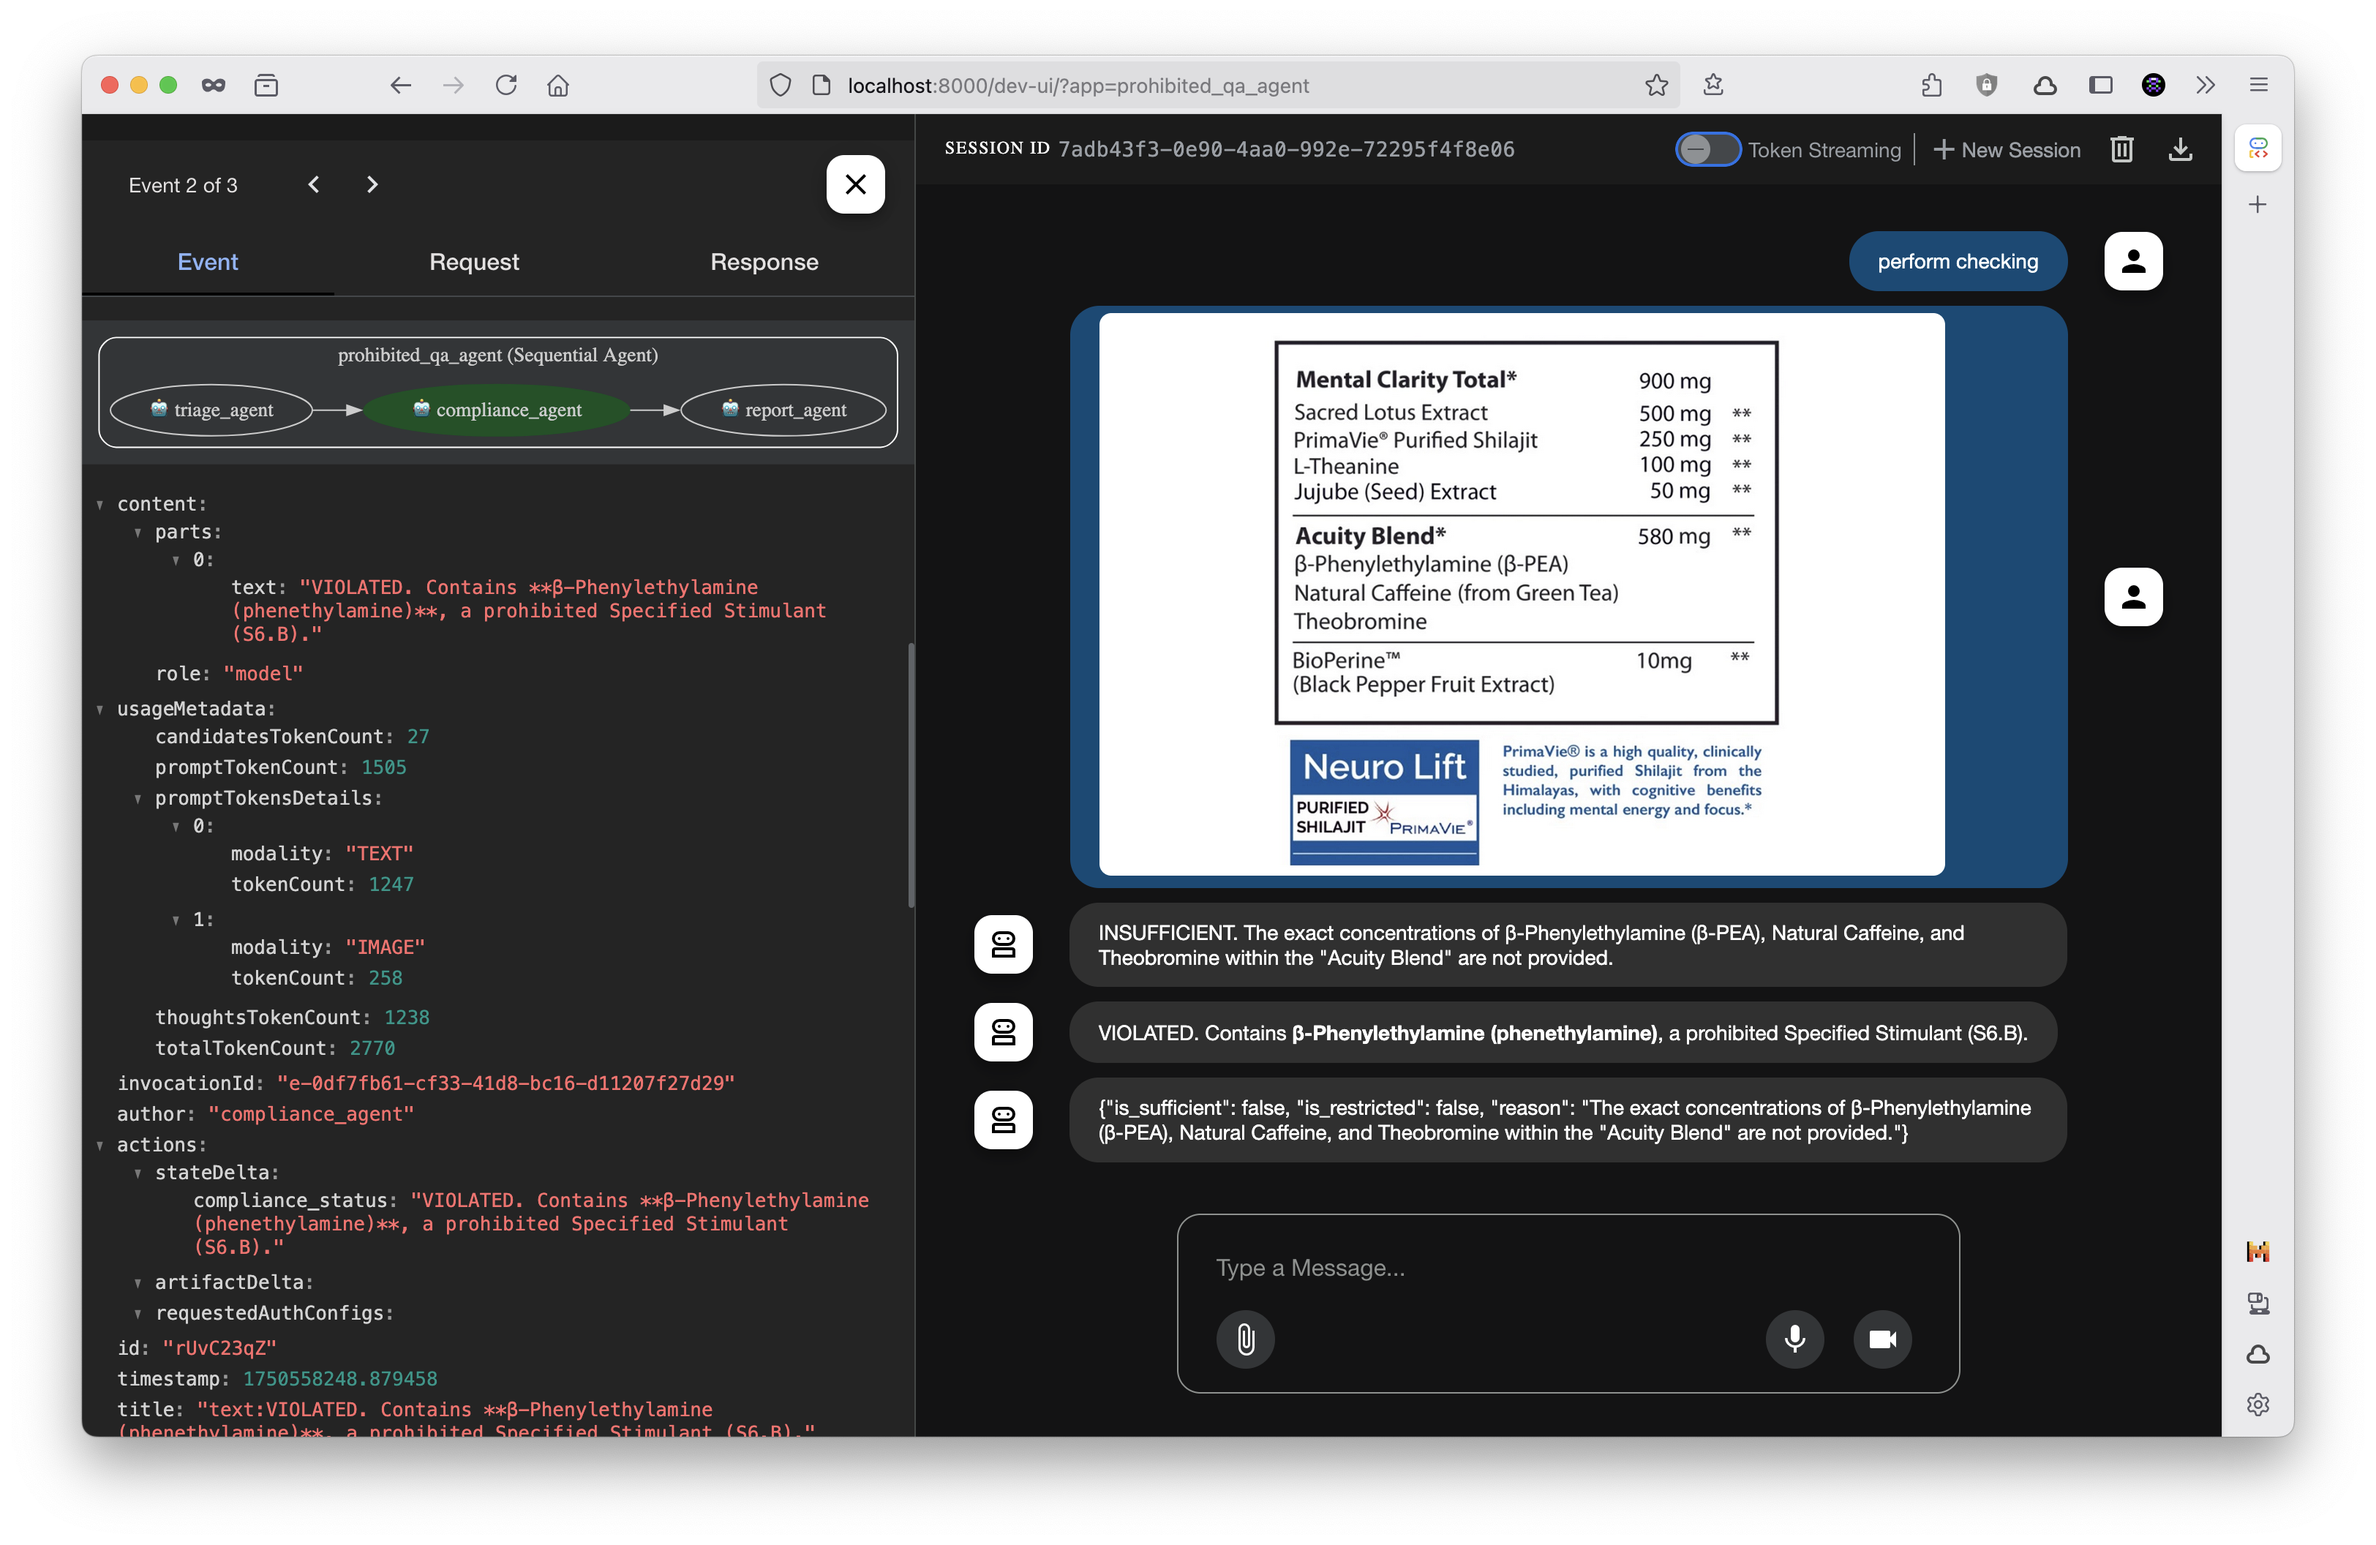
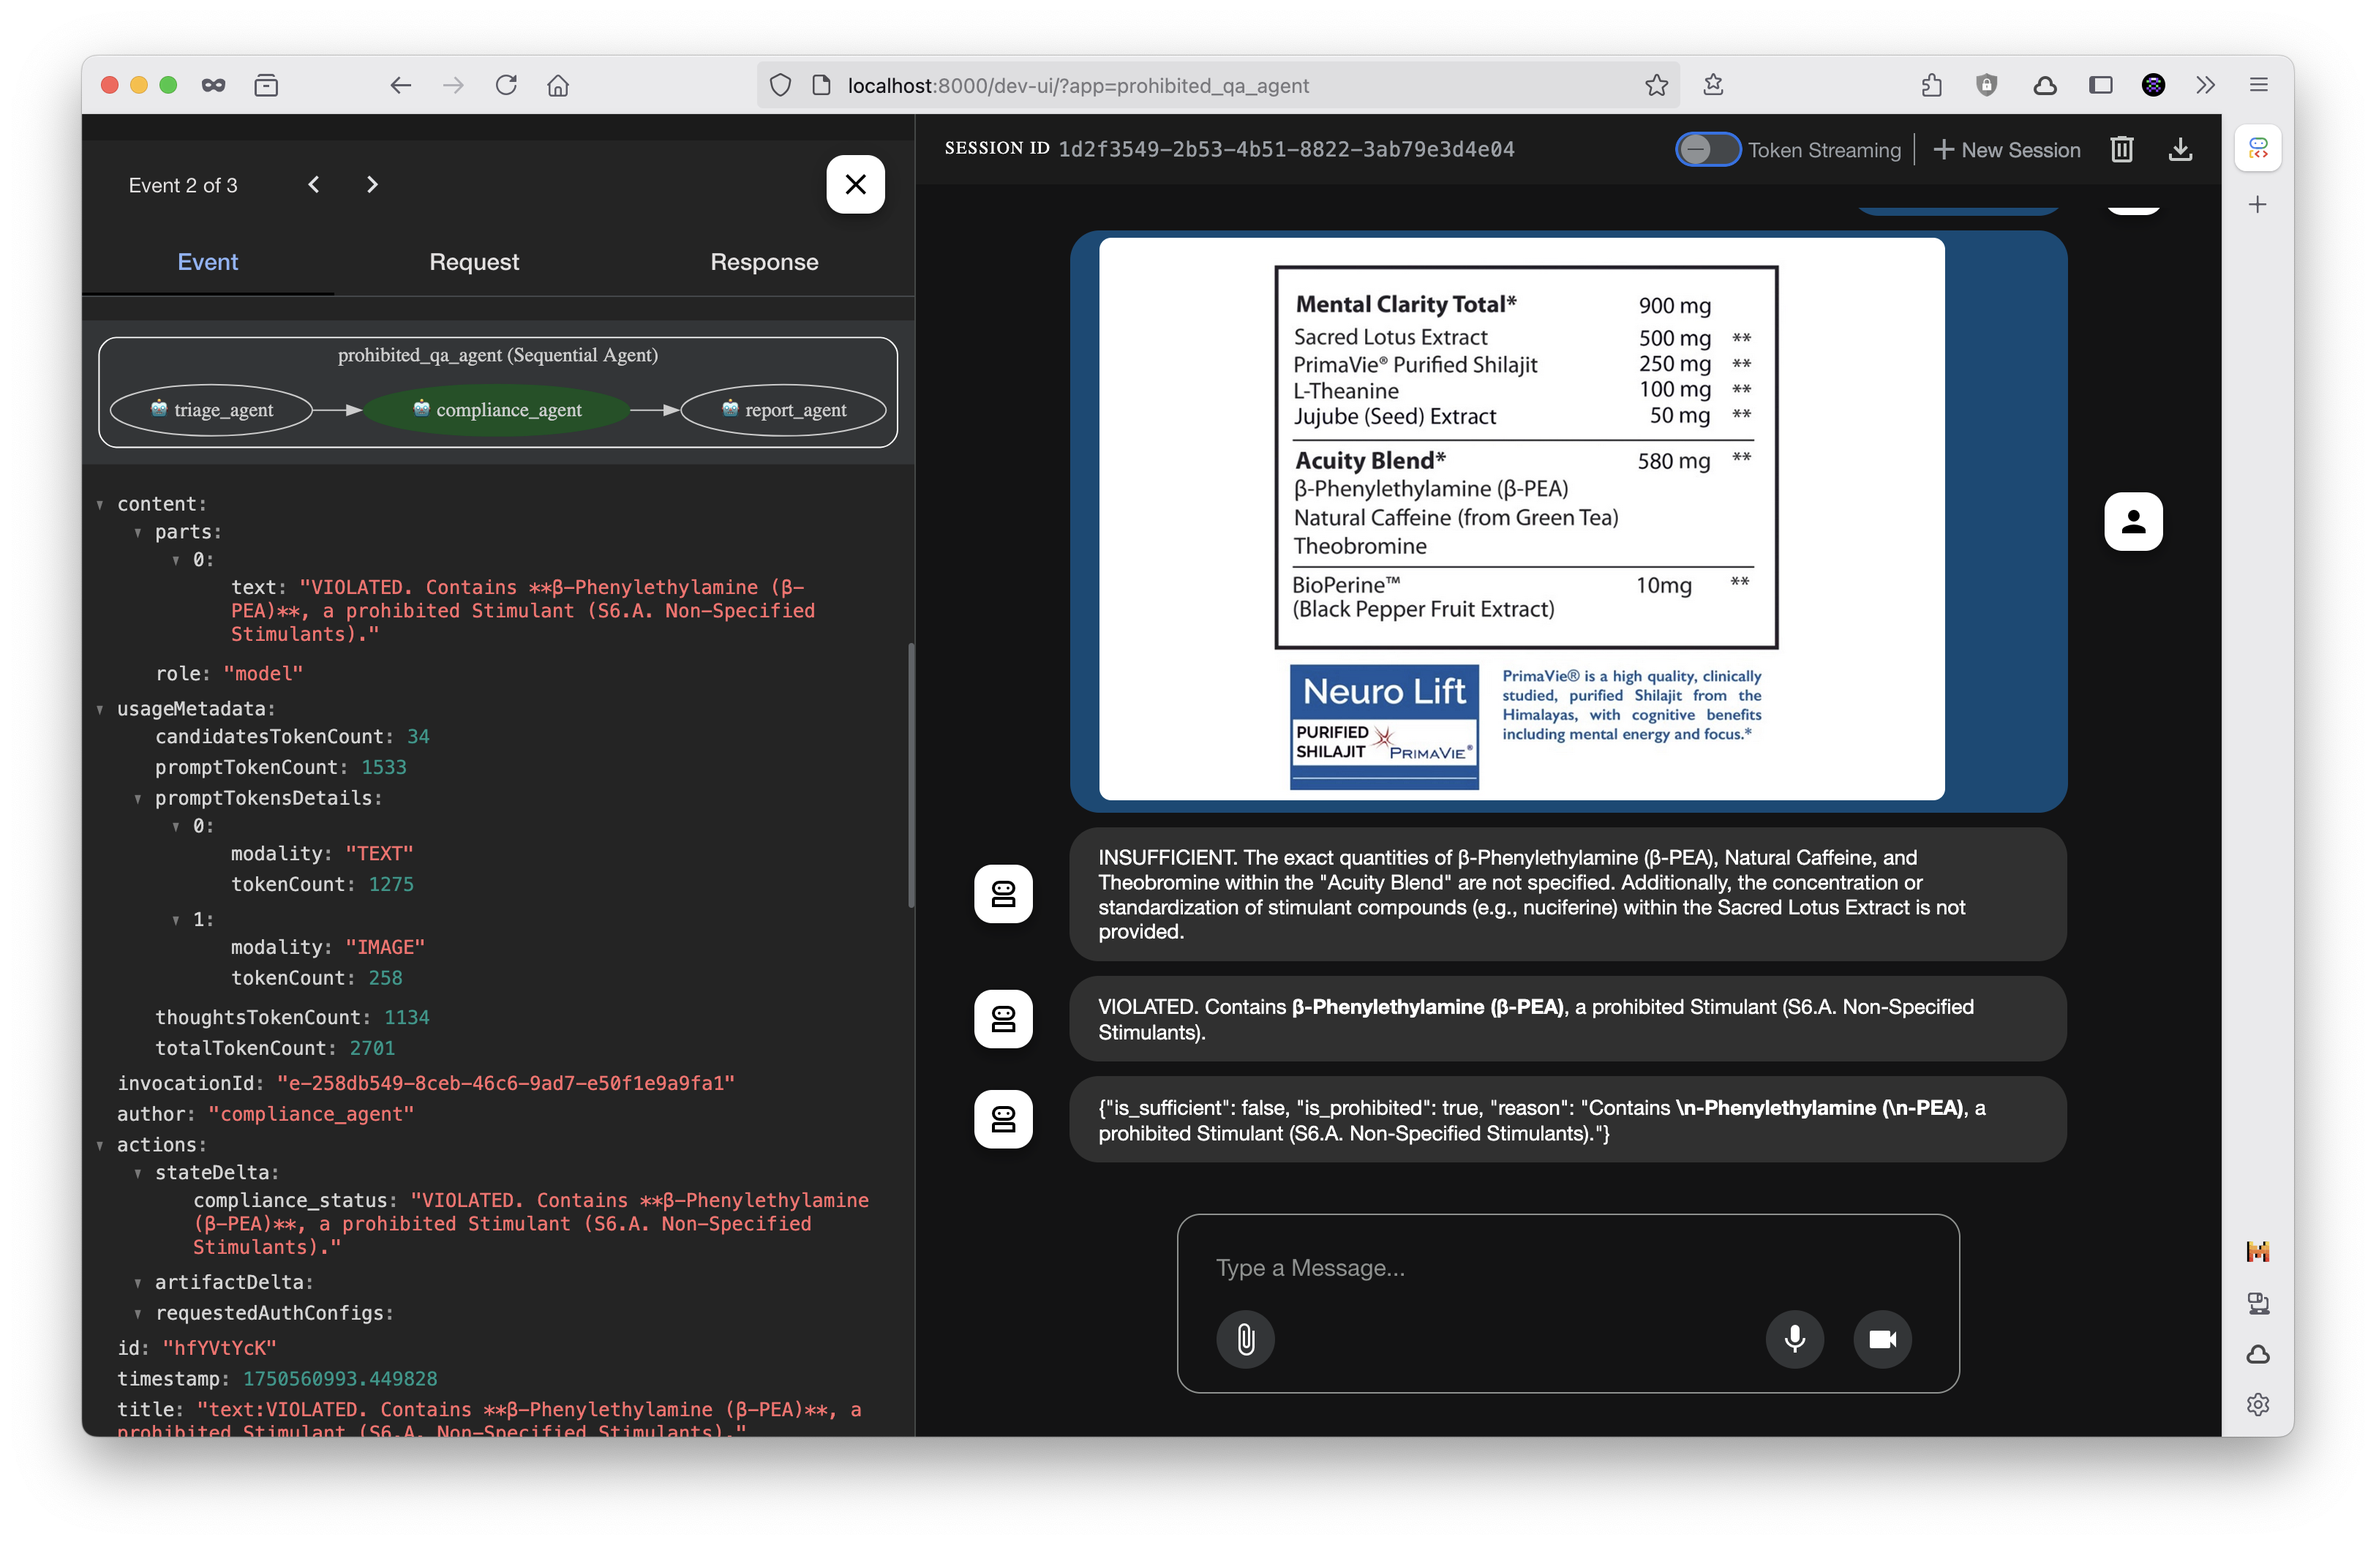
demo

diff --git a/prohibited_qa_agent/sub_agents/report_agent/prompt.py b/prohibited_qa_agent/sub_agents/report_agent/prompt.py
@@ -18,21 +18,25 @@ You will be given two output_key inputs:
 
 You must follow these rules in order to generate the final output. The {triage_status} is the primary gate.
 
-### Rule 1: If Triage is INSUFFICIENT
-If the {triage_status} begins with INSUFFICIENT, the process stops. The product requires human review because the information is incomplete.
+### Rule 1: If Triage is INSUFFICIENT and Compliance is PASS
+If the {triage_status} begins with INSUFFICIENT and {compliance_status} is PASS, the process stops. The product requires human review because the information is incomplete and no prohibited ingredients were found during preliminary check.
 
 - `is_sufficient` must be FALSE.
-- `is_prohibited` must be FALSE (as a violation has not been confirmed).
-- The reason must be the text that follows INSUFFICIENT from the {triage_status} input.
+- The reason must be "Inconclusive due to insufficient information for full compliance review, and no prohibited ingredient found."
 
-### Rule 2: If Triage is SUFFICIENT and Compliance is VIOLATED
+### Rule 2: If Triage is INSUFFICIENT and Compliance is VIOLATED
+If the {triage_status} begins with INSUFFICIENT and the {compliance_status} begins with VIOLATED, the product is determined to be prohibited even with insufficient information.
+
+- `is_sufficient` must be FALSE.
+- The reason must be the text that follows VIOLATED from the {compliance_status} input.
+
+### Rule 3: If Triage is SUFFICIENT and Compliance is VIOLATED
 If the {triage_status} is SUFFICIENT and the {compliance_status} begins with VIOLATED, the product is determined to be prohibited.
 
 - `is_sufficient` must be TRUE.
-- `is_prohibited` must be TRUE.
 - The reason must be the text that follows VIOLATED from the {compliance_status} input.
 
-### Rule 3: If Triage is SUFFICIENT and Compliance is PASS
+### Rule 4: If Triage is SUFFICIENT and Compliance is PASS
 If the {triage_status} is SUFFICIENT and the {compliance_status} is PASS, the product is compliant and has been cleared.
 
 - `is_sufficient` must be TRUE.
